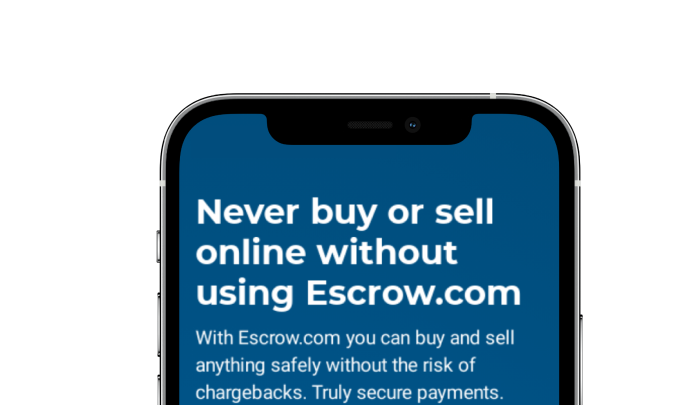
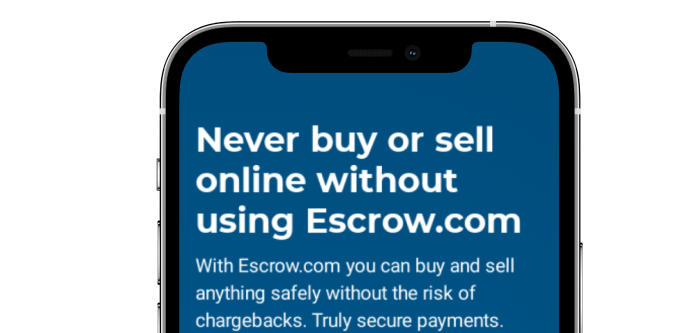
working on tablet site

diff --git a/src/components/Body.jsx b/src/components/Body.jsx
@@ -1,19 +1,21 @@
 import React from 'react'
 import phoneMockUpImgMobile from '../Assets/Phone Mockup (Mobile).png'
+import phoneMockUpImgTable from '../Assets/Phone Mockup (Tablet).png'
 import textEditorImg from '../Assets/Text Editor.png'
 
 const Body = () => {
   return (
   <>
-    <div className='flex flex-col mx-2 bg-neutral-200 border-1 rounded-lg'>
-      <div className='p-5'>
-        <h1 className='font-bold text-5xl pb-3'>Secure your money with Escrow</h1>
-        <p className='text-lg max-w-lg mb-8'> Spense uses Escrow to secure all payments. We believe Escrow offers the highest level of security for your payments, so you never need to worry about scames.</p>
+    <div className='flex flex-col mx-2 md:mx-10 bg-neutral-200 border-1 rounded-lg'>
+      <div className='p-5 md:px-10 pt-10'>
+        <h1 className='font-bold text-5xl pb-3'>Secure your money with Escrow.</h1>
+        <p className='text-lg max-w-lg mb-8 leading-snug'> Spense uses Escrow to secure all payments. We believe Escrow offers the highest level of security for your payments, so you never need to worry about scames.</p>
         <a className="text-gray-700 inline-flex items-center font-semibold tracking-wide underline cursor-pointer"
         href="javascript:;">Learn more about Escrow &#8594;</a>
       </div>
       <div className='flex justify-center'>
-        <img src={phoneMockUpImgMobile}></img>
+        <img className='md:hidden' src={phoneMockUpImgMobile}></img>
+        <img className='hidden md:block' src={phoneMockUpImgTable}></img>
       </div>
     </div>
 

diff --git a/src/components/Header.jsx b/src/components/Header.jsx
@@ -1,5 +1,6 @@
 import React from 'react'
 import heroImgMobile from '../Assets/Hero Image (Mobile).png'
+import heroImgTablet from '../Assets/Hero Image (Tablet).png'
 import checkMark from '../Assets/Checkmark.svg'
 const Header = () => {
 
@@ -16,9 +17,10 @@ const Header = () => {
   ]
 
   return (
-    <div className='flex flex-col bg-neutral-200 px-3 pb-5'>
+    <div className='flex flex-col bg-neutral-200 px-3 pb-5 md:px-7'>
       <div className='my-10'>
-        <img src={heroImgMobile} alt=''></img>
+        <img className='md:hidden' src={heroImgMobile} alt=''></img>
+        <img className='' src={heroImgTablet} alt=''></img>
       </div>
       <h1 className='text-4xl font-bold leading-snug'>Share your unfiltered thoughts. Get paid.</h1>
       <p className='my-5 font-2xl text-neutral-500'>Spense is a open platform for individuals to share their unfiltered thoughts. Discuss the topics you love, and get paid for doing just that.</p>
@@ -31,8 +33,8 @@ const Header = () => {
       ))}
       </div>
 			
-			<div className='flex flex-row justify-between items-center mx-auto'>
-				<input className='p-4 border border-gray-300 roundex1xd-md mr-5' placeholder='john@example.com'></input>
+			<div className='flex flex-row justify-between items-center md:items-start mx-auto md:ml-2'>
+				<input className='p-4 border border-gray-300 mr-5' placeholder='john@example.com'></input>
         <button className='p-4 bg-black border border-gray-500 rounded-md text-white font-extrabold'>Get Started </button>
 			</div>
         

diff --git a/src/components/Navbar.jsx b/src/components/Navbar.jsx
@@ -4,14 +4,24 @@ import hamburger from '../Assets/Hamburger Menu.svg'
 
 const Navbar = () => {
   return (
-    <nav className='flex justify-between items-center bg-neutral-200 px-2 pt-5'>
+    <nav className='flex justify-between items-center bg-neutral-200 px-2 pt-5 md:px-7'>
       
       <div>
         <p className='font-extrabold text-lg'>spense.</p>
       </div>
 
-      <div className='text-black cursor-pointer'>
+      {/* hamburger  */}
+      <div className='text-black cursor-pointer md:hidden'>
         <img src={hamburger} alt=''></img>
+      </div>
+
+      {/* tablet */}
+      <div className='hidden md:flex flex-row justify-center items-center list-none cursor-pointer font-semibold'>
+        <li className='mx-3'>Business</li>
+        <li className='mx-3'>Pricing</li>
+        <li className='mx-3'>Features</li>
+        <li className='mx-3'>Login</li>
+        <button className='p-4 bg-black border border-gray-500 rounded-md text-white font-extrabold'>Get Started </button>
       </div>
 
     </nav>
